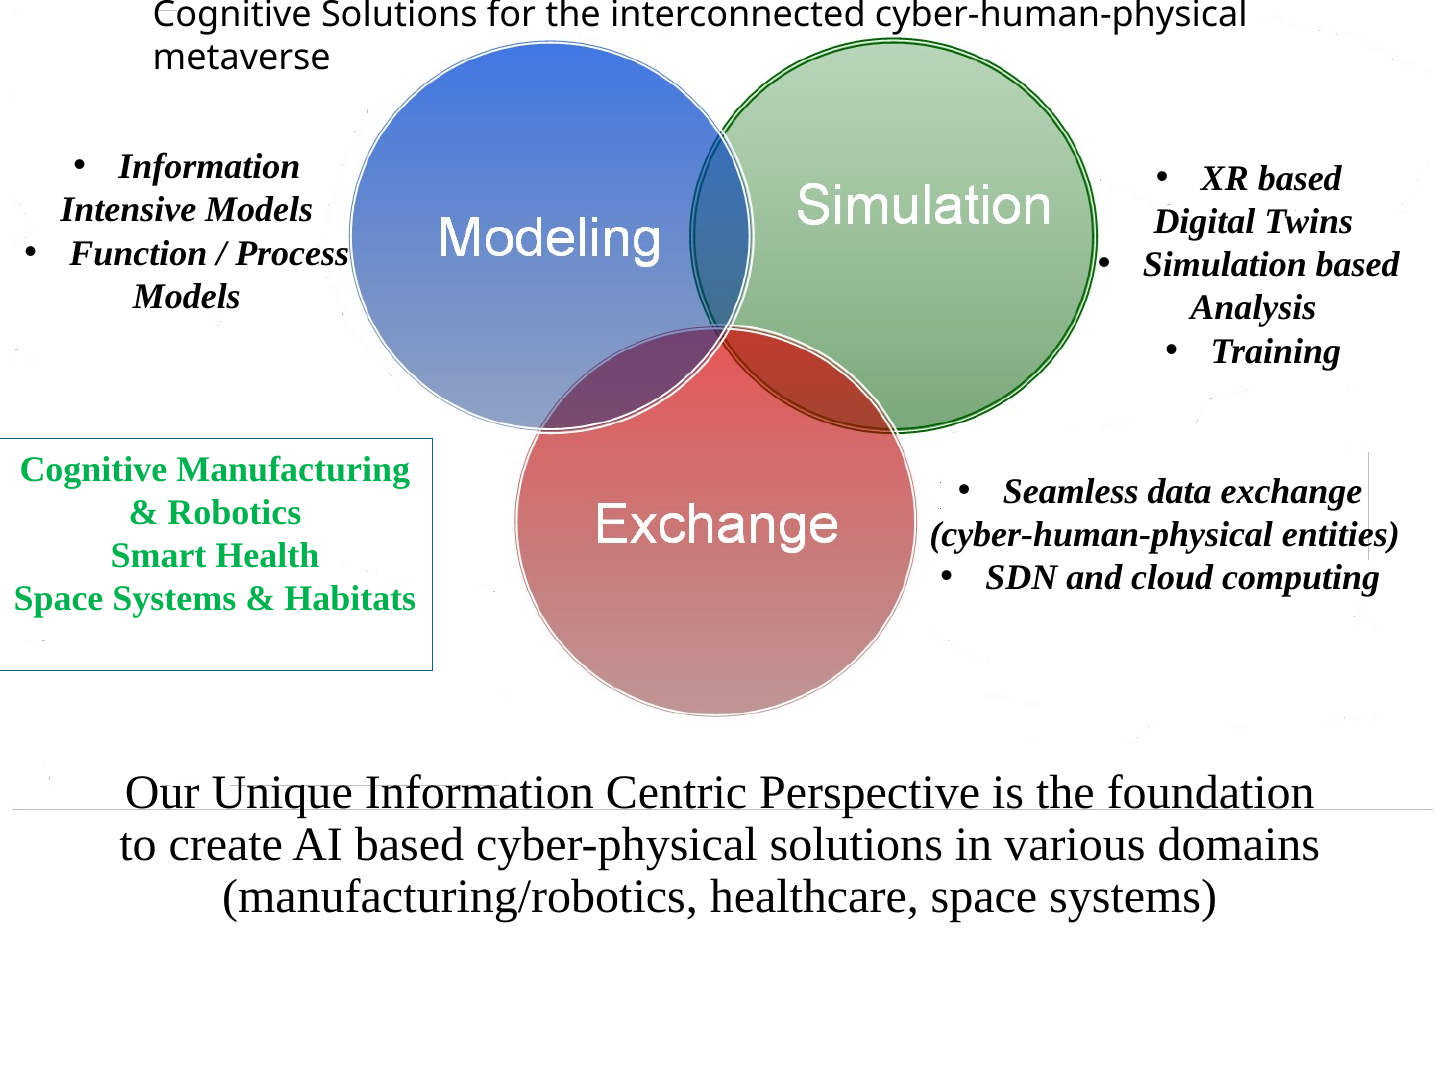
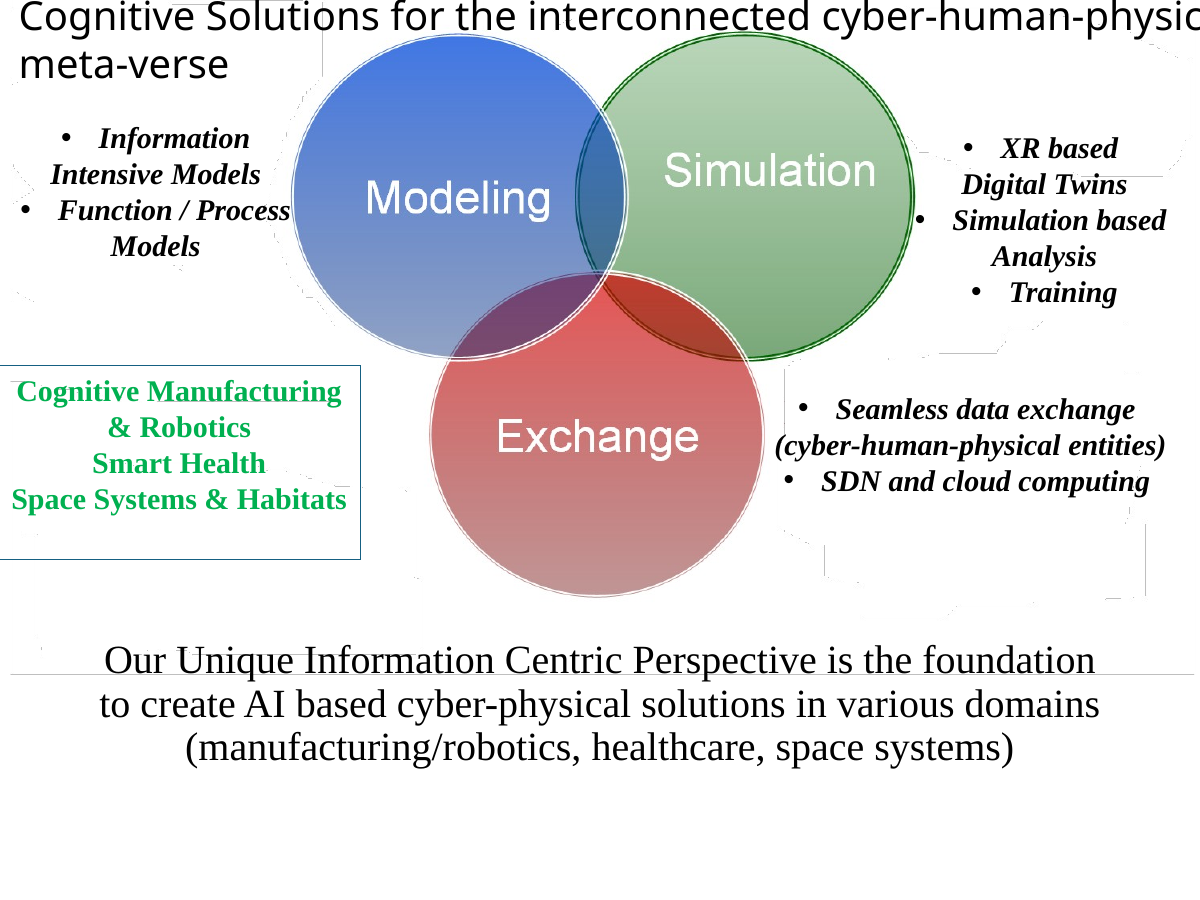
Add files via upload

diff --git a/index.html b/index.html
@@ -33,7 +33,7 @@
 <div class="container hero-layout"><div class="hero-content">
 <h1 class="hero-title" id="home-title">Cyber <span>Tech</span></h1>
 <p class="hero-declaration hero-declaration--client">Cognitive Solutions for the interconnected <span>cyber-human-physical metaverse</span></p>
-<p class="hero-perspective">Our Unique Information Centric Perspective is the foundation to create AI based cyber-physical solutions in various domains (manufacturing/robotics, healthcare, space systems)</p><p class="hero-description">We design and develop custom cyber and cyber-physical tools for manufacturing, medicine, space systems, and cyber learning.</p>
+<p class="hero-description">We design and develop custom cyber and cyber-physical tools for manufacturing, medicine, space systems, and cyber learning.</p>
 </div>
 <div aria-hidden="true" class="hero-side"><svg aria-label="Abstract digital twin orbital system with glowing spherical geometry" class="orbital-visual" role="img" viewbox="0 0 710 710">
 <defs>

diff --git a/assets/styles.css b/assets/styles.css
@@ -655,7 +655,7 @@ body:not(.is-leaving) .site-main { animation-duration:.52s; }
   color: #dcecf9;
   padding-left: 17px;
   margin: 26px 0 17px;
-  border-left: 2px solid var(--client-orange);
+  border-left: none;
 }
 .hero-content .hero-description { margin-top: 13px; }
 .hero-content .text-link { margin-top: 26px; }

diff --git a/README.md b/README.md
@@ -1,13 +1,15 @@
-# Cyber Tech — Cecil updated services slides (V21)
+# Cyber Tech — V23 verified against Cecil's V3 PowerPoint
 
-A complete static website ready to upload to GitHub Pages. Use Home, Domains and Contact in the unchanged upper-right menu.
+Static website ready for review and GitHub Pages upload. No build process needed.
 
-## Cecil's newest update
-The six services slides (2–7) from **V3 UPDATED SERVICES FOR THE WEB PAGE.pptx** appear only on the homepage under **Overview of our Teams' Expertise and Experience**. The slides are reproduced as full-slide PNGs in the approved sequence, without cropping or zoom links. The new medical robotics slide is slide 7.
+- Homepage: Removed the entire “Our Unique Information Centric Perspective…” paragraph and its orange rule, as Cecil explicitly requested. Kept the other existing homepage text unchanged.
+- Presentation: Homepage displays complete V3 slides 2–7 in original order under Mission and Services, with no cropping, no enlarged-image links, and no added subtitles.
+- Domains: Slide 1 is now the exact V3 slide 1 rendering (replacing an older edited graphic).
+- Navigation: Home, Domains, Contact unchanged from V22. “Discover our domains” remains removed.
+- Responsive CSS remains in place. No redesign or new material was added.
 
-The Domains page remains reachable via the unchanged menu and shows the previously approved domains overview (slide 1), without repeating the services presentation. The homepage's Mission and Services content, contact section, and investment notice are retained.
+**Note:** The deleted “Our Unique Information Centric Perspective…” sentence still exists *inside V3 PowerPoint slide 1* on the separate Domains page. This is part of Cecil’s slide artwork, not homepage text. I did not change it because you asked for an exact V3 slide match.
 
-## Install
-Extract the ZIP and upload all files and folders, preserving the `assets/` directory, to your GitHub Pages repository. No build step is needed.
+**Source-slide wording**: The PowerPoint contains `meta-verse` on slide 1, `smicro` and `asemble` on slide 7, and `nurse` (singular) on slide 6. These are unmodified so the slides match the supplied PowerPoint exactly.
 
-Review `CECIL-REVIEW-NOTES.txt` for source-slide typos intentionally left intact.
+To publish, extract the ZIP and upload everything (including the `assets/` folder) to the GitHub Pages repository. The live site is not changed by this ZIP.
